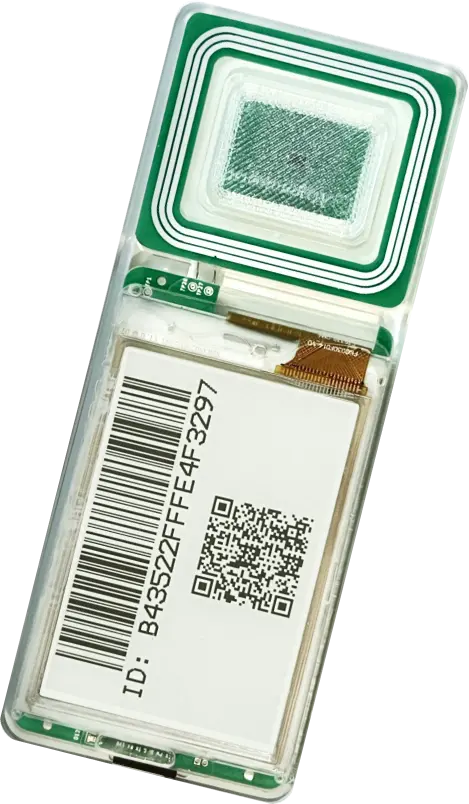
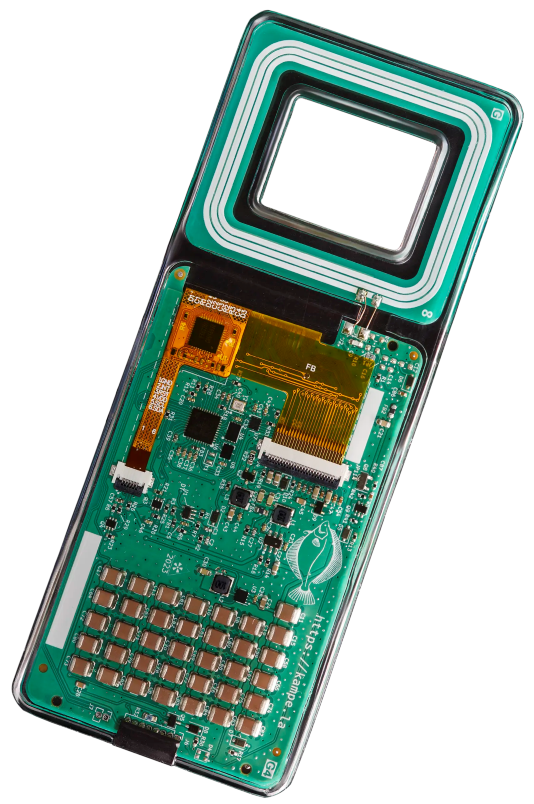
replaced kampela images for check screen and for mobile version

diff --git a/index.html b/index.html
@@ -129,7 +129,7 @@
             </menu>
           </div>
         </div>
-        <div class="kampela-img mobile"><img src="img/kampela-mobile.webp" alt="kampela"></div>
+        <div class="kampela-img mobile"><img src="img/kampela-mobile.webp" alt="kampela" height="266"></div>
         <div id="about-text-block-2" class="text-h3">That is why it is so flat, like a flounder.</div>
       </div>
 
